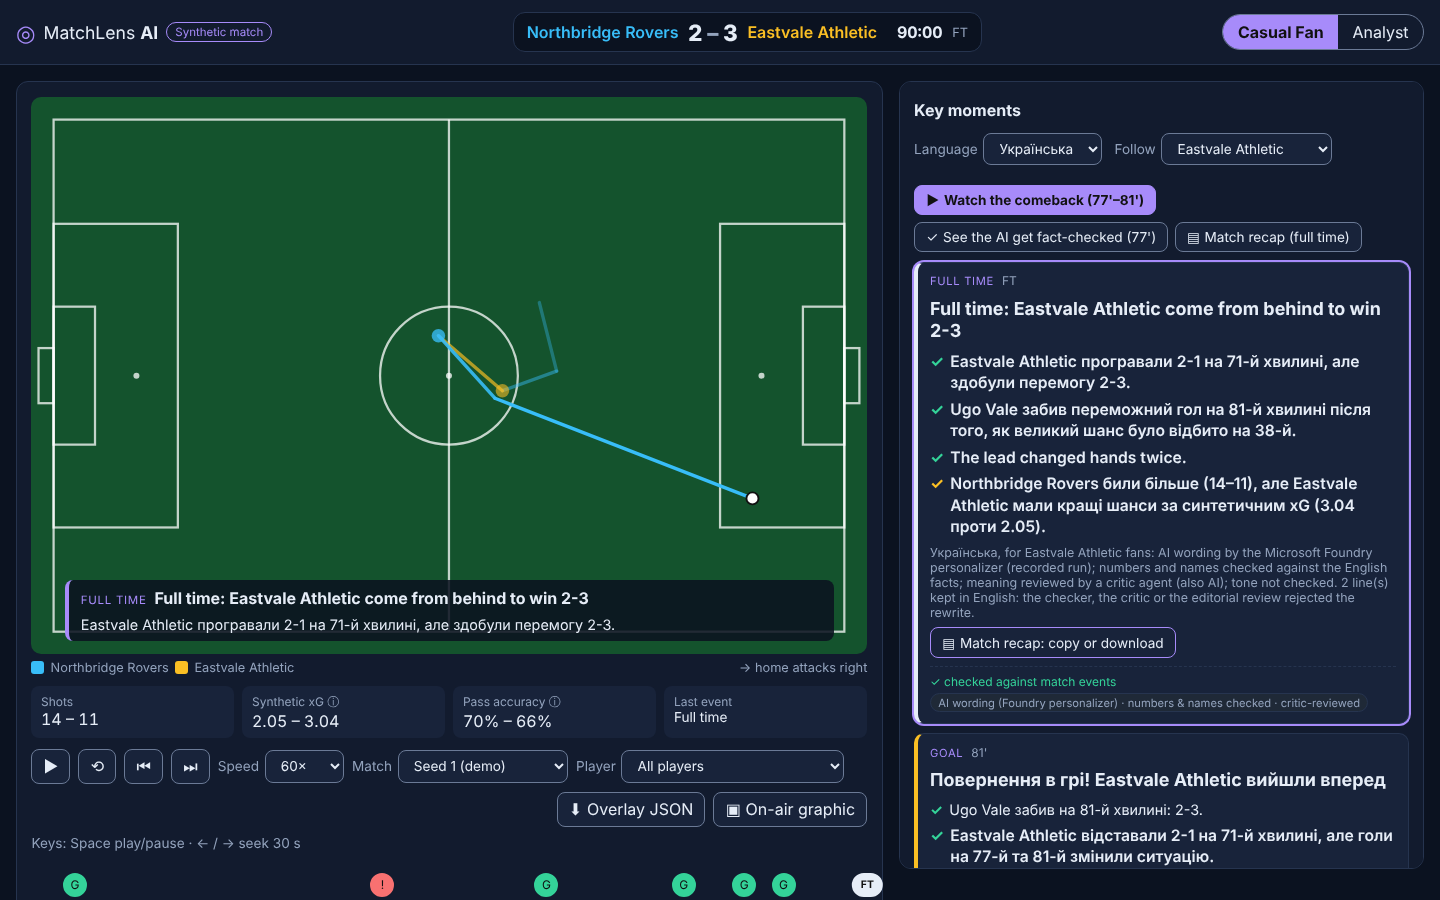
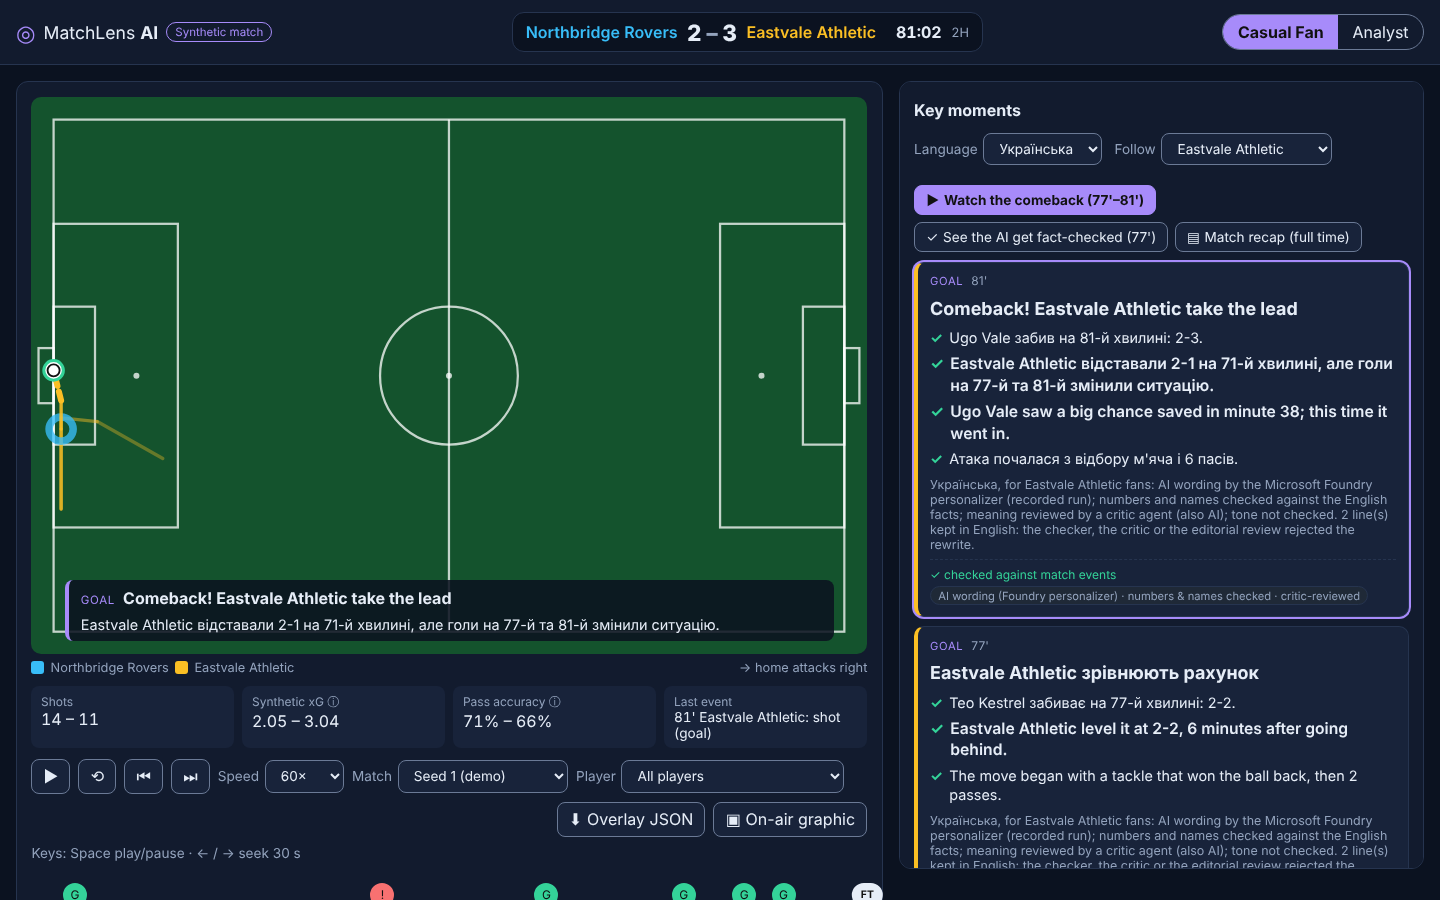
docs: retake fan-uk.png after the second Ukrainian review (#30)
The new screenshot shows the 81' comeback card for Eastvale fans in
Ukrainian, the same view as the video, taken from main @ 51b1ea0. The
image list in SUBMISSION describes it.

Claude-Session: https://claude.ai/code/session_016Yte5cT5kJBpnag3zYo7Ki

diff --git a/docs/SUBMISSION.md b/docs/SUBMISSION.md
@@ -40,7 +40,7 @@ Enter **Best Enterprise Solution** (with the Grand Prize). Decided on 2026-10-25
 From `docs/images/` (taken from the local static build of this version):
 1. `comeback.png`: the replay at 81', with the comeback card and the lower-third.
 2. `ai-check.png`: the 77' claim check, with the plain summary above the claim list.
-3. `fan-uk.png`: the fan view in Ukrainian, following Eastvale.
+3. `fan-uk.png`: the fan view in Ukrainian, following Eastvale, at the 81' comeback. Lines whose rewrite was rejected stay in English.
 4. `recap.png`: the match recap at full time.
 5. `on-air.png`: the on-air lower-third.
 6. `architecture-pipeline.png` and `architecture-azure.png`: the two diagrams from the README.
